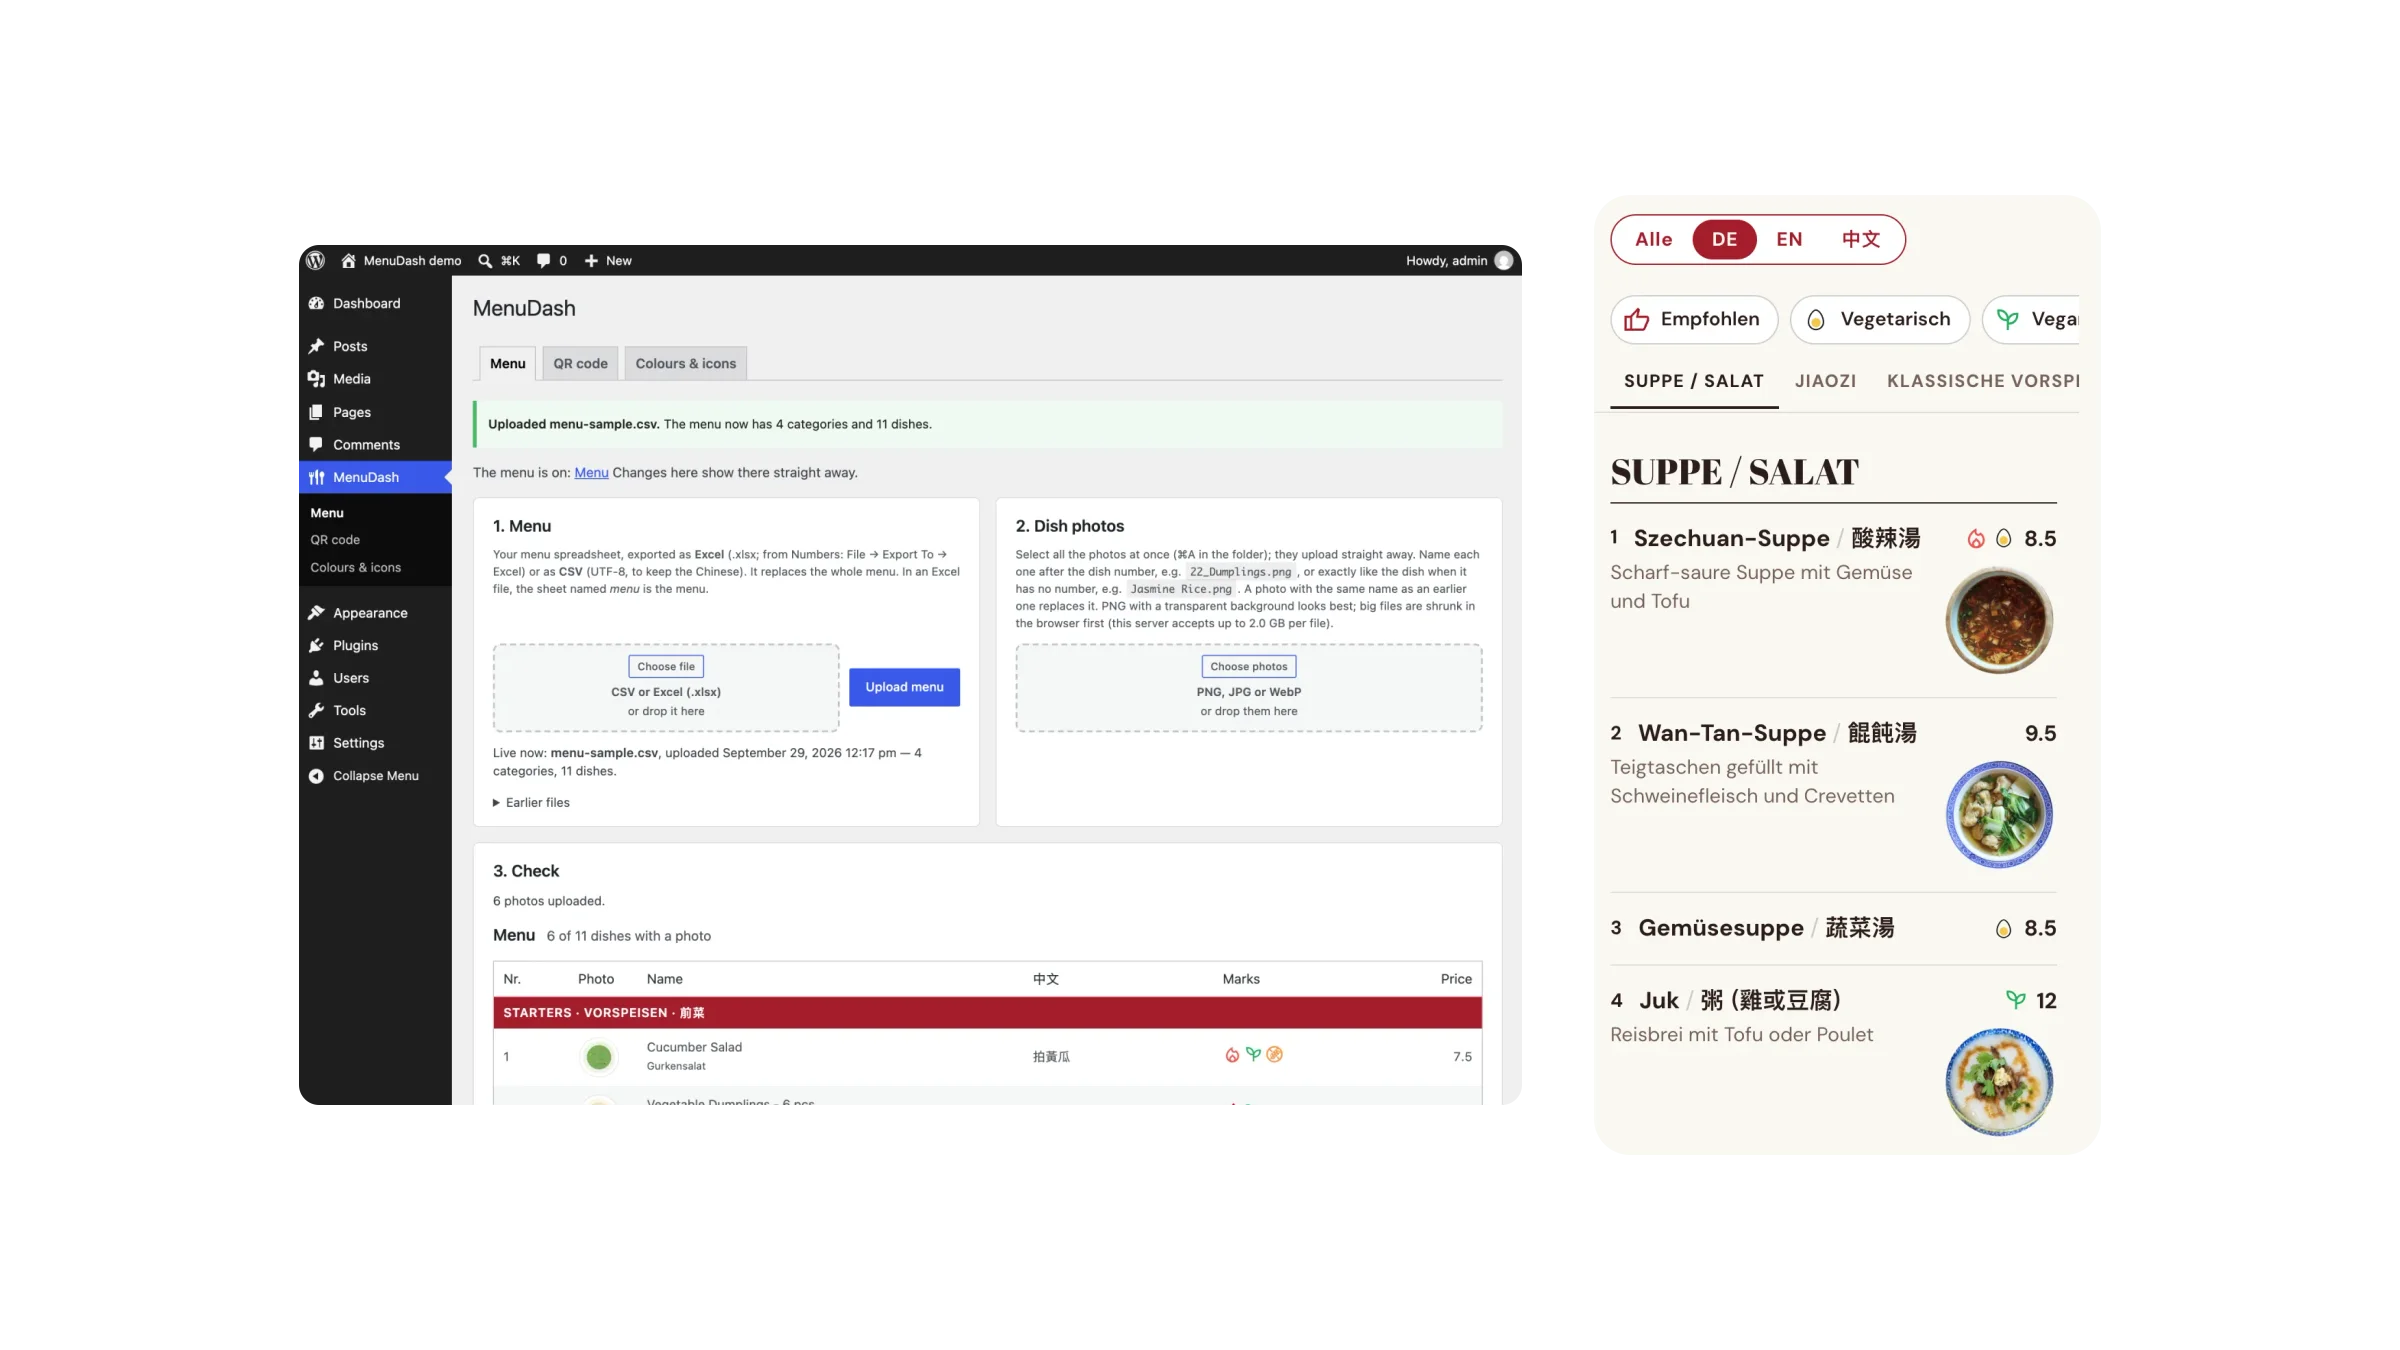
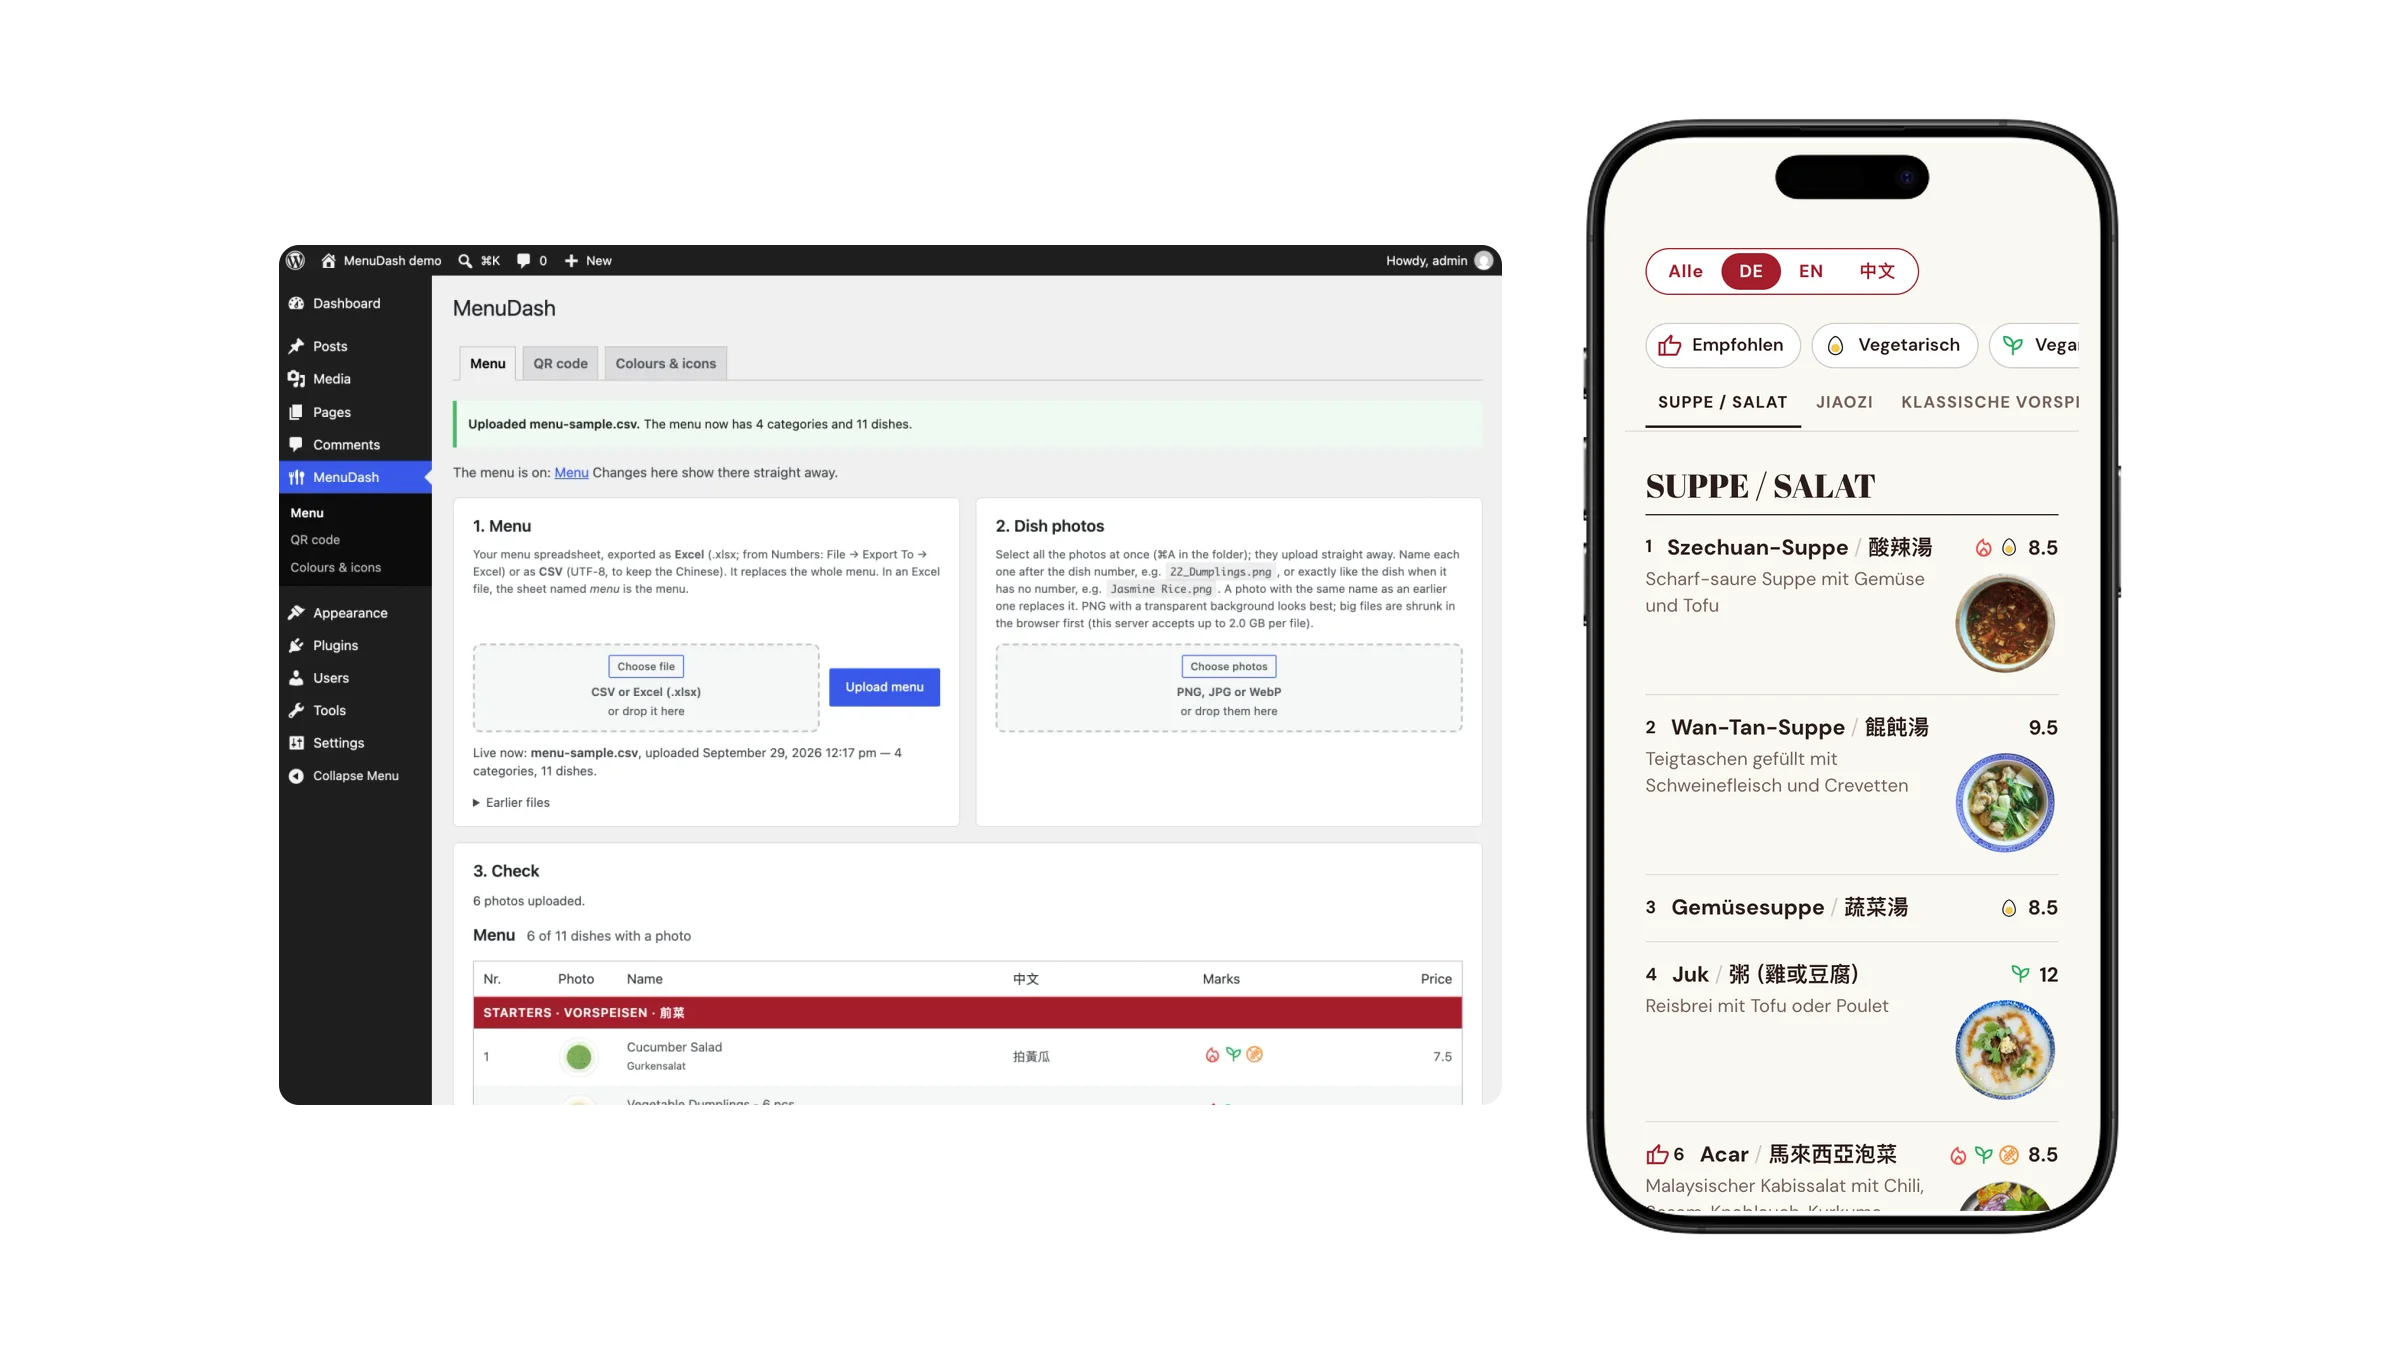
Draft: MenuDash phones sit in an iPhone frame, on the card, the hover, the hero and the afatt.ch shot

diff --git a/src/content/projects/menudash/index.md b/src/content/projects/menudash/index.md
@@ -51,7 +51,7 @@ MenuDash makes the spreadsheet the website menu. You upload the file you already
 
 A Fatt, a Malaysian Chinese restaurant in Zürich, runs its menu on MenuDash: 110 dishes in three languages, with photos and diet marks, from the same spreadsheet the staff already edit. [See the menu on afatt.ch](https://afatt.ch/menu/).
 
-![A Fatt’s menu on a phone: language switch, diet filters, category tabs, and dishes with German and Chinese names, prices and photos](./afatt-menu-phone.webp)
+![A Fatt’s menu on a phone: language switch, diet filters, category tabs, and dishes with German and Chinese names, prices and photos](./afatt-menu-iphone.webp)
 
 </div>
 
